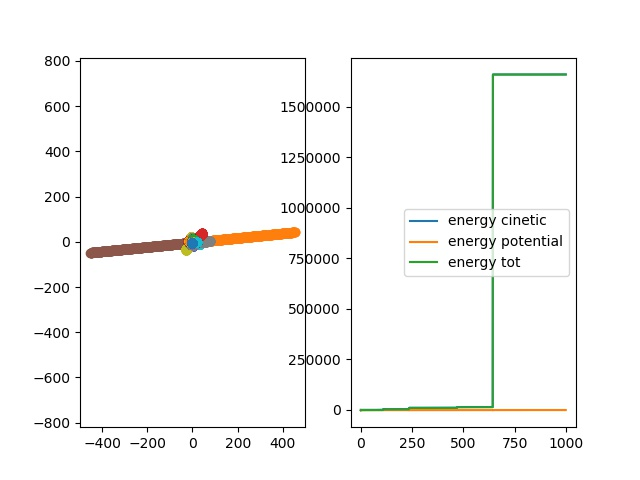
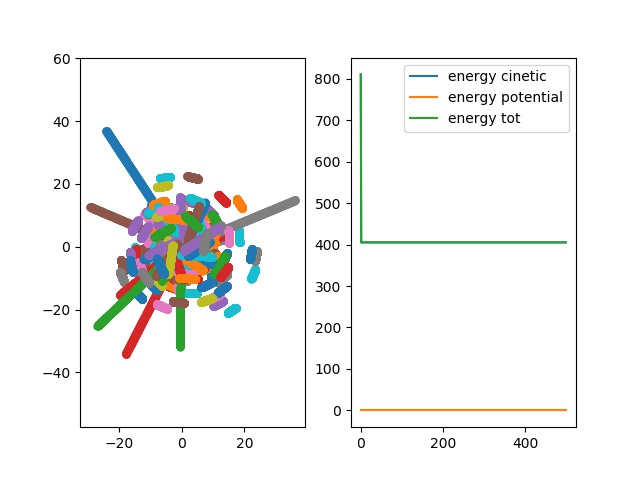
multpiprocessing

diff --git a/Code/simulation.py b/Code/simulation.py
@@ -1,4 +1,5 @@
 from Tree import *
+import multiprocessing 
 
 class Simulation :
     def __init__(self, delta_t, size, center, G=1, theta = 1):
@@ -11,6 +12,7 @@ class Simulation :
         self.root = None        #root of the tree
         self.theta = theta          #parameter of the simulation
         self.eps = 10**(-5)          #qvoid collision
+    
     def step(self):
         self.nb_point = len(self.particules)
         self.set_tree()                 #create the tree with the current state of the particules
@@ -18,6 +20,15 @@ class Simulation :
         self.calculate_force()          #calcul the interaction on each particule
         self.update_velocity()          #update the velocity of each particule
         self.update_position()          #update the position of each particule
+
+
+    def step_multiprocessing(self):
+        self.nb_point = len(self.particules)
+        self.set_tree()                 #create the tree with the current state of the particules
+        print("set tree finish")
+        self.calculate_force_mutliprocessing()          #calcul the interaction on each particule
+        self.update_velocity()          #update the velocity of each particule
+        self.update_position()    
 
         """
         test= []
@@ -31,6 +42,10 @@ class Simulation :
     def set_tree(self):
         self.root = Node(self.size, self.center, self.particules)
 
+    
+    
+    
+    
     def calculate_force(self):
         for i in range (self.nb_point):
             self.particules[i].force = np.array([0.,0.]) # re-set the force for the next step
@@ -65,6 +80,13 @@ class Simulation :
                         self.calculate_force_target(target_particule, temp_node.children[i])
                         
     
+    def calculate_force_mutliprocessing(self): #using mutliprocessing
+        
+        if __name__ == '__main__':
+            pool = multiprocessing.Pool()
+            pool.map(self.calculate_force_target, self.particules)
+            pool.close()
+
 
     def update_velocity (self) :
         for i in range(self.nb_point):

diff --git a/Code/Main.py b/Code/Main.py
@@ -9,7 +9,7 @@ import sys
 sys.setrecursionlimit(10**5) 
 
 
-simul = Simulation (0.001, 100, np.array([0.,0.]))
+simul = Simulation (0.01, 100, np.array([0.,0.]))
 
 simul.particules = [Particule(np.array([0.1,0.1]), 1, 0,np.array([0.,0.]),0), 
                             Particule(np.array([-0.1,0.1]), 1, 0,np.array([0.,0.]),1),
@@ -60,7 +60,7 @@ def init_syst_soleil(s):
 init_syst_soleil(simul)
 
 N_part = len(simul.particules)
-N_cycle = 1000
+N_cycle = 500
 
 pos_x = [[]]*N_part
 pos_y = [[]]*N_part
@@ -75,7 +75,7 @@ frames_size = 100
 ax1 = fig.add_subplot(1,2,1)
 ax1.set_xlim(-frames_size, frames_size)
 ax1.set_ylim(-frames_size, frames_size)
-line, = ax1.plot([], [], 'o')
+line, = ax1.plot([], [], 'o', markersize=5)
 
 ax2 = fig.add_subplot(1,2,2)
 
@@ -96,7 +96,7 @@ def make_frame(t):
         pos_y[i] = pos_y[i] + [parti[i].position[1]]
 
 
-    simul.step()
+    simul.step_multiprocessing()
     parti = simul.particules
     N_part = len(simul.particules)
 
@@ -137,7 +137,7 @@ plt.figure()
 plt.subplot(1,2,1)
 plt.axis('equal')
 for i in range (N_part):
-    plt.plot(pos_x[i], pos_y[i], 'o')
+    plt.plot(pos_x[i], pos_y[i], 'o', markersize=5)
 
 plt.subplot(1,2,2)
 plt.plot(enery_cin, label = 'energy cinetic')
